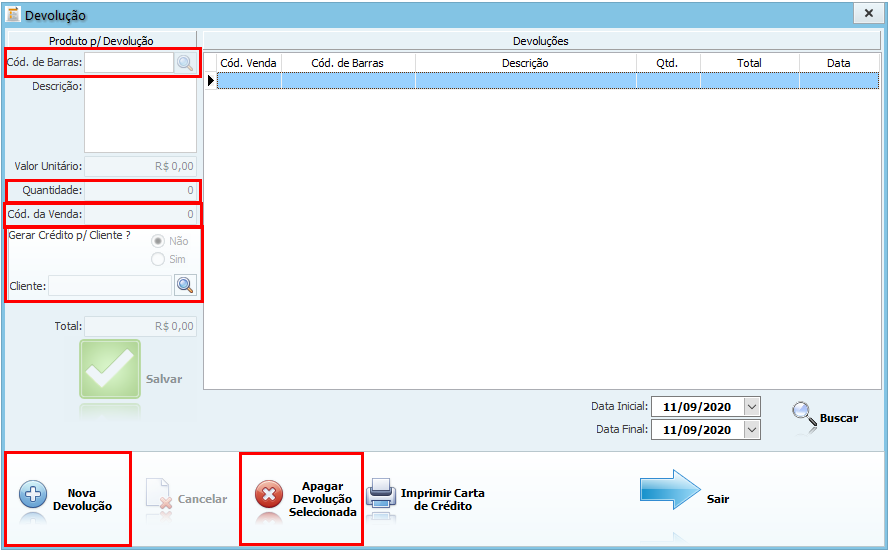
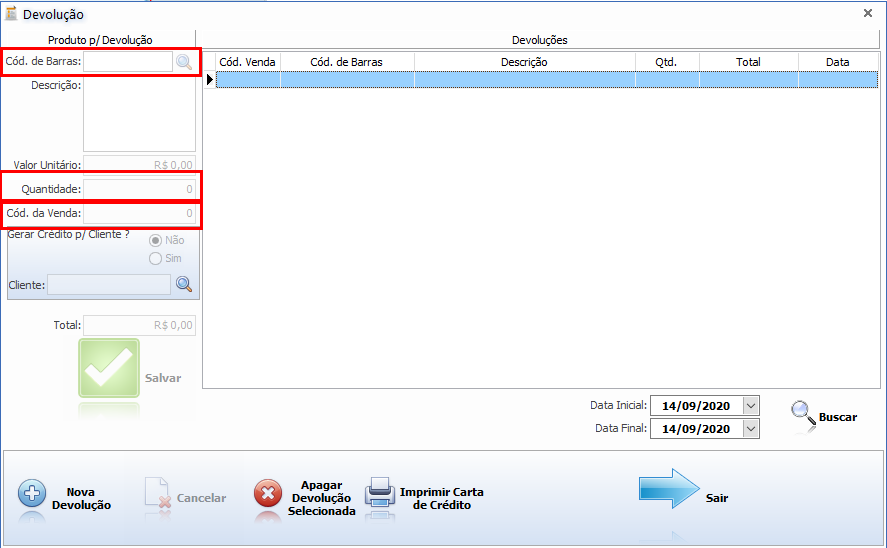
Retirando Cliente Crédito dos tutoriais

Changed region(s): [[0.0, 0.0, 1.0, 1.0], [0.0913, 0.6515, 0.1522, 0.7445], [0.0913, 0.2482, 0.1218, 0.2792]]

diff --git a/index.js b/index.js
@@ -28,18 +28,15 @@ Bot.on('message', async message => {
             await channel.send("5. Você pode pesquisar produtos por código de barras ou descrição. Aperte em cima do produto que está sendo devolvido e depois aperte em \"F5 - Lançar Produto\"", { files: ["imagens/pesquisaprodutoemtroca.png"] });
             await channel.send("6. Após selecionar o produto, escreva a quantidade sendo devolvida no campo \"Quantidade\".\n" +
                 "7. Se possuir, informe o número do cupom da venda do produto que está sendo devolvido. Caso não tenha o número, deixe escrito \"0\" (zero).\n" +
-                "8. Em \"Gerar Crédito p/ Cliente?\" aperte na opção \"Sim\" e depois aperte na lupa para escolher o cliente (se não marcar \"Sim\" a troca não irá ser efetuada)", { files: ["imagens/telatrocaescolhercliente.png"] });
-            await channel.send("9. Escolha o cliente com nome \"CLIENTE CRÉDITO\". Clique nele com o mouse e depois clique em \"Ok\"", { files: ["imagens/telaescolherclienteemtroca.png"] });
-            await channel.send("10. Cheque se os dados estão corretos e então aperte em \"Salvar\"", { files: ["imagens/telatrocaconfirmedados.png"] });
-            await channel.send("11. Após apertar em \"Salvar\", a devolução deve aparecer na lista", { files: ["imagens/telatrocaefetuadasucesso.png"] });
+                "8. Em \"Gerar Crédito p/ Cliente?\" deixe na opção \"Não\"", { files: ["imagens/telatrocaescolhercliente.png"] });
+            await channel.send("09. Cheque se os dados estão corretos e então aperte em \"Salvar\"", { files: ["imagens/telatrocaconfirmedados.png"] });
+            await channel.send("10. Após apertar em \"Salvar\", a devolução deve aparecer na lista", { files: ["imagens/telatrocaefetuadasucesso.png"] });
 
-            await channel.send("AGORA PARA A NOVA VENDA:\n1. Obrigatoriamente você terá que escolher o cliente CLIENTE CRÉDITO na hora da venda. Na tela de venda, aperte a tecla \"F2\" no teclado, selecione o cliente com mouse e aperte em \"Ok\"",
-                { files: ["imagens/telavendaescolhercliente.png"] });
-            await channel.send("2. O cliente escolhido aparece junto do nome do vendedor (se não escolher o cliente a venda não irá finalizar)",
-                { files: ["imagens/telavendaclienteescolhido.png"] });
-            await channel.send("3. Na tela de pagamento, selecione a forma de pagamento CRÉDITO EM TROCA e insira o valor das mercadorias sendo devolvidas pelo cliente",
+            await channel.send("AGORA PARA A NOVA VENDA:");
+            await channel.send("1. Insira normalmente os produtos que o cliente irá levar.");
+            await channel.send("2. Na tela de pagamento, selecione a forma de pagamento CRÉDITO EM TROCA e insira o valor das mercadorias sendo devolvidas pelo cliente",
                 { files: ["imagens/telapagamentocreditoemtroca.png"] });
-            await channel.send("4. Se houver diferença, insira da forma que o cliente pagar essa diferença. Finalize a venda normalmente",
+            await channel.send("3. Se houver diferença, insira da forma que o cliente pagar essa diferença. Finalize a venda normalmente",
                 { files: ["imagens/telapagamentorestante.png"] });
             await channel.send("FIM DAS INSTRUÇÕES DE TROCA");
             break;
